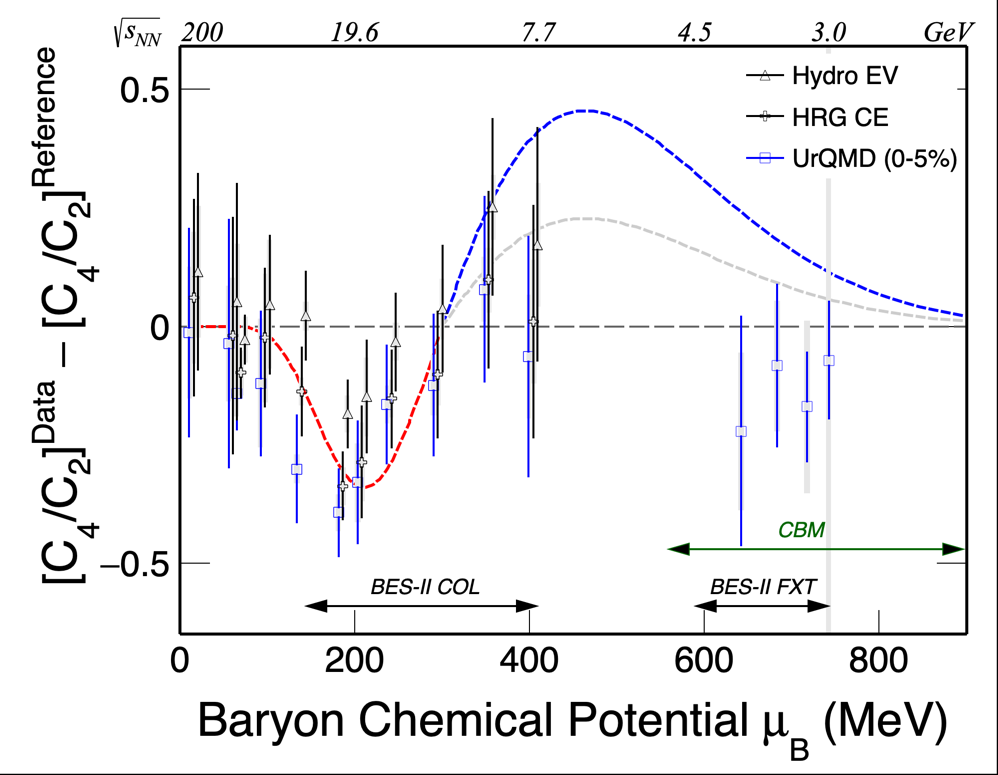
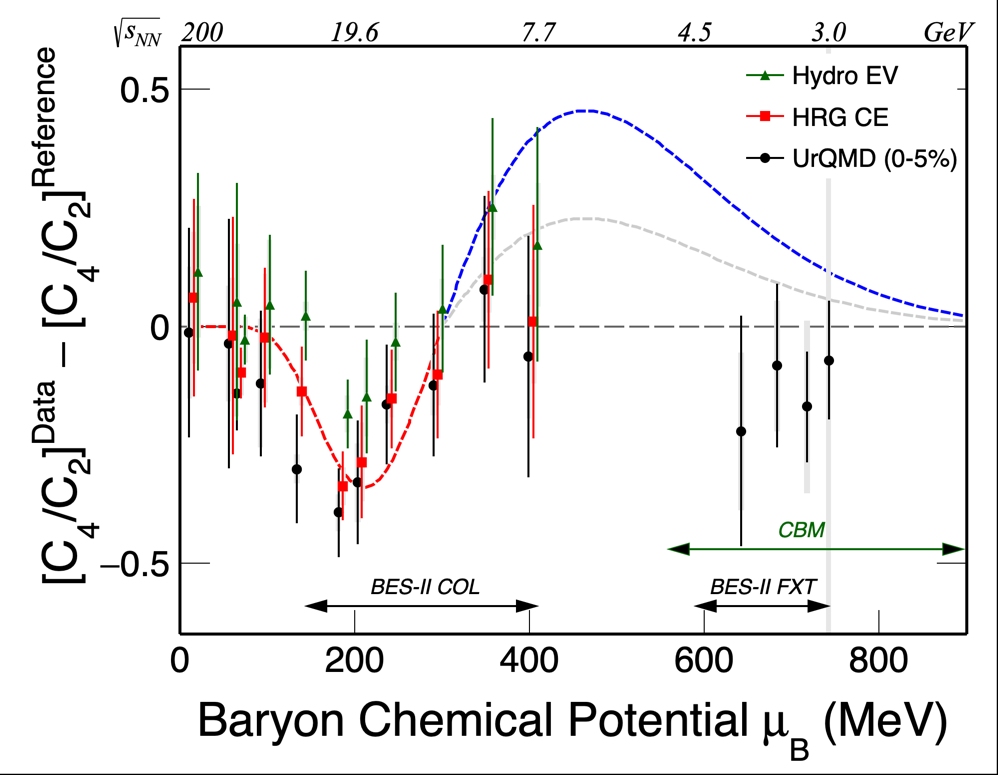
plotting style change

diff --git a/NetProtonMoments/plotDiffQM25.C b/NetProtonMoments/plotDiffQM25.C
@@ -266,8 +266,9 @@ void plotDiffQM25()
   //  drawLine(x1, 0, x2, 0, 1, 9, 13);
   drawLine(x1, 0, x2, 0, 2, 9, 13);
 
-  const Int_t markerColor[n_model] = {kBlue, kBlack, kBlack, kBlack};
-  const Int_t markerStyle[n_model] = {25, 28, 26, 24};
+  //  const int plotflag[n_model] = {1, 1, 1, 0}; // UrQMD, HRG CE, Hydro EV, 70-80%
+  const Int_t markerColor[n_model] = {kBlack, kRed, kGreen+3, kBlack};
+  const Int_t markerStyle[n_model] = {20, 21, 22, 24};
   const Double_t markerSize[n_model] = {1.2, 1.4, 1.2, 1.6};
     
   for(int im=0;im<n_model;im++) {
@@ -281,7 +282,7 @@ void plotDiffQM25()
     
     drawSysBoxInRange(gr_ds[im], 0.03, 18, 1, y1, y2);
     setGraphMarker(gr_d[im], markerStyle[im], markerColor[im], markerSize[im]);
-    setGraphLine(gr_d[im], 1, markerColor[im], 1);
+    setGraphLine(gr_d[im], 1, markerColor[im], 2);
     gr_d[im]->Draw("p");
 
     if(im==3) { // replot ratio to 70-80% data with solid marker
@@ -295,7 +296,7 @@ void plotDiffQM25()
     if(im==0) {
       drawSysBoxInRange(gr_ds_fxt[im], 0.03, 18, 1, y1, y2);
       setGraphMarker(gr_d_fxt[im], markerStyle[im], markerColor[im], markerSize[im]);
-      setGraphLine(gr_d_fxt[im], 1, markerColor[im], 1);
+      setGraphLine(gr_d_fxt[im], 1, markerColor[im], 2);
       gr_d_fxt[im]->Draw("p");
 
       drawText(15, y1+(y2-y1)*0.90, "Au+Au Collisions at RHIC", 42, 0.05);
@@ -317,7 +318,7 @@ void plotDiffQM25()
   leg->SetTextSize(0.04);
   for(int im=0;im<n_model;im++) {
     if(!plotflag[im]) continue;
-    leg->AddEntry(gr_d[im], NameModel[im], "p");
+    leg->AddEntry(gr_d[im], NameModel[im], "pl");
   }
   leg->Draw();
 
